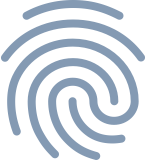
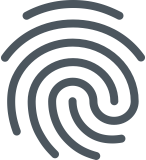
Updated Login View + ViewModel

diff --git a/PropertyManager/PropertyManager.UWP/Styles.xaml b/PropertyManager/PropertyManager.UWP/Styles.xaml
@@ -8,16 +8,17 @@
     <converters:InverseBooleanToVisibilityConverter x:Key="InverseBooleanToVisibilityConverter"/>
     
     <!--Colors-->
+    <!--<SolidColorBrush x:Key="AccentColorBrush" Color="#4dc3d3"/>-->
     <SolidColorBrush x:Key="AccentColorBrush" Color="#ea225f"/>
     <SolidColorBrush x:Key="LightAccentColorBrush" Color="#f12865"/>
     <SolidColorBrush x:Key="DarkAccentColorBrush" Color="#cc134c"/>
-    <SolidColorBrush x:Key="PrimaryColorBrush" Color="#0c2c53"/>
-    <SolidColorBrush x:Key="SecondaryColorBrush" Color="#f3f6fa"/>
+    <SolidColorBrush x:Key="PrimaryColorBrush" Color="#4c565e"/>
+    <SolidColorBrush x:Key="SecondaryColorBrush" Color="#fff"/>
 
     <!--Styles-->
     <Style x:Key="PageRootGridStyle" TargetType="Grid">
         <Setter Property="Background" Value="{StaticResource SecondaryColorBrush}"/>
-        <Setter Property="Padding" Value="20"></Setter>
+        <Setter Property="Padding" Value="30"></Setter>
     </Style>
     
     <Style x:Key="TextBlockBaseStyle" TargetType="TextBlock">
@@ -27,16 +28,19 @@
     <Style x:Key="HeaderTextBlockStyle" TargetType="TextBlock" 
            BasedOn="{StaticResource TextBlockBaseStyle}">
         <Setter Property="TextAlignment" Value="Center"/>
-        <Setter Property="FontSize" Value="30"/>
-        <Setter Property="FontFamily" Value="ms-appx:/Assets/Fonts/Roboto-Bold.ttf#Roboto"/>
+        <Setter Property="FontSize" Value="36"/>
+        <Setter Property="LineHeight" Value="36"/>
+        <!--<Setter Property="FontWeight" Value="Bold"/>-->
+        <Setter Property="FontFamily" Value="ms-appx:/Assets/Fonts/RobotoCondensed-Bold.ttf#Roboto"/>
     </Style>
 
     <Style x:Key="BodyTextBlockStyle" TargetType="TextBlock" 
            BasedOn="{StaticResource TextBlockBaseStyle}">
         <Setter Property="TextAlignment" Value="Center"/>
-        <Setter Property="FontSize" Value="15"/>
+        <Setter Property="FontSize" Value="14"/>
         <Setter Property="TextWrapping" Value="Wrap"/>
-        <Setter Property="FontFamily" Value="ms-appx:/Assets/Fonts/Roboto-Regular.ttf#Roboto"/>
+        <!--<Setter Property="FontWeight" Value="Normal"/>-->
+        <!--<Setter Property="FontFamily" Value="ms-appx:/Assets/Fonts/Roboto-Regular.ttf#Roboto"/>-->
     </Style>
 
     <Style x:Key="AccentProgressRingStyle" TargetType="ProgressRing">
@@ -50,22 +54,25 @@
         <Setter Property="Foreground" Value="#fff"/>
         <Setter Property="BorderBrush" Value="{ThemeResource SystemControlForegroundTransparentBrush}"/>
         <Setter Property="BorderThickness" Value="0"/>
-        <Setter Property="Padding" Value="20,15"/>
+        <Setter Property="Padding" Value="20,10"/>
         <Setter Property="MinWidth" Value="200"/>
-        <!--<Setter Property="Margin" Value="20,10"/>-->
         <Setter Property="HorizontalAlignment" Value="Left"/>
         <Setter Property="VerticalAlignment" Value="Center"/>
-        <Setter Property="FontWeight" Value="Bold"/>
-        <Setter Property="FontSize" Value="{ThemeResource ControlContentThemeFontSize}"/>
+        <!--<Setter Property="FontSize" Value="{ThemeResource ControlContentThemeFontSize}"/>-->
         <Setter Property="UseSystemFocusVisuals" Value="True"/>
-        <Setter Property="CharacterSpacing" Value="60"/>
+        <Setter Property="CharacterSpacing" Value="35"/>
+        <!--<Setter Property="FontWeight" Value="Bold"/>-->
         <Setter Property="FontFamily" Value="ms-appx:/Assets/Fonts/Roboto-Bold.ttf#Roboto"/>
+        <!--<Setter Property="FontFamily" Value="ms-appx:/Assets/Fonts/Roboto-Bold.ttf#Roboto"/>-->
+        <!--<Setter Property="FontSize" Value="16"/>-->
+        <!--<Setter Property="FontFamily" Value="ms-appx:/Assets/Fonts/BEBAS___.ttf#Bebas"/>-->
+
         <Setter Property="Template">
             <Setter.Value>
                 <ControlTemplate TargetType="Button">
-                    <Border x:Name="RootGrid" Background="{TemplateBinding Background}" 
-                            CornerRadius="23">
-                    <!--<Grid x:Name="RootGrid" Background="{TemplateBinding Background}">-->
+                    <!--<Border x:Name="RootGrid" Background="{TemplateBinding Background}" 
+                            CornerRadius="23">-->
+                    <Grid x:Name="RootGrid" Background="{TemplateBinding Background}">
                         <VisualStateManager.VisualStateGroups>
                             <VisualStateGroup x:Name="CommonStates">
                                 <VisualState x:Name="Normal">
@@ -105,10 +112,9 @@
                             </VisualStateGroup>
                         </VisualStateManager.VisualStateGroups>
                         <ContentPresenter x:Name="ContentPresenter" AutomationProperties.AccessibilityView="Raw" BorderBrush="{TemplateBinding BorderBrush}" BorderThickness="{TemplateBinding BorderThickness}" ContentTemplate="{TemplateBinding ContentTemplate}" ContentTransitions="{TemplateBinding ContentTransitions}" Content="{TemplateBinding Content}" HorizontalContentAlignment="{TemplateBinding HorizontalContentAlignment}" Padding="{TemplateBinding Padding}" VerticalContentAlignment="{TemplateBinding VerticalContentAlignment}"/>
-                    </Border>
+                    </Grid>
                 </ControlTemplate>
             </Setter.Value>
         </Setter>
     </Style>
-
 </ResourceDictionary>

diff --git a/PropertyManager/PropertyManager.UWP/Views/LoginView.xaml b/PropertyManager/PropertyManager.UWP/Views/LoginView.xaml
@@ -13,27 +13,31 @@
                     VerticalAlignment="Center"
                     MaxWidth="350">
             <Image Source="../Assets/Images/fingerprint.png"
-                   MaxHeight="160"></Image>
+                   MaxHeight="120"></Image>
 
             <TextBlock Style="{StaticResource HeaderTextBlockStyle}"
-                       Margin="0,10,0,0">
+                       Margin="0,25,0,0">
                 Who are you?
             </TextBlock>
 
             <TextBlock Style="{StaticResource BodyTextBlockStyle}"
-                       Margin="0,25,0,50">
-                Sign in using your work or school account in order to use this sample application. Access the sample code for this application at https://github.com/coatsy/xplat-graph
+                       Margin="0,10,0,15"
+                       Foreground="#9a9fa3">
+                Sign in with your work or school account in order to use this sample application. Access the sample code for this application at https://github.com/coatsy/xplat-graph
             </TextBlock>
 
-            <Grid HorizontalAlignment="Center" Height="50">
+            <Grid HorizontalAlignment="Stretch" Height="50">
                 <Button Style="{StaticResource AccentButtonStyle}"
+                        HorizontalAlignment="Stretch"
                         Command="{Binding LoginCommand}"
-                        Visibility="{Binding IsLoading, Converter={StaticResource InverseBooleanToVisibilityConverter}}">
+                        Visibility="{Binding IsLoading, 
+                    Converter={StaticResource InverseBooleanToVisibilityConverter}}">
                     SIGN IN
                 </Button>
 
                 <ProgressRing Style="{StaticResource AccentProgressRingStyle}"
-                          IsActive="{Binding IsLoading}">
+                          IsActive="{Binding IsLoading}"
+                              HorizontalAlignment="Center">
                 </ProgressRing>
             </Grid>
         </StackPanel>

diff --git a/PropertyManager/PropertyManager/PropertyManager/ViewModels/LoginViewModel.cs b/PropertyManager/PropertyManager/PropertyManager/ViewModels/LoginViewModel.cs
@@ -9,8 +9,6 @@ namespace PropertyManager.ViewModels
     {
         private readonly IGraphService _graphService;
 
-        private readonly IAuthenticationService _authenticationService;
-
         private bool _isLoading;
 
         public bool IsLoading
@@ -25,12 +23,9 @@ namespace PropertyManager.ViewModels
 
         public ICommand LoginCommand => new MvxCommand(LoginAsync);
 
-        public LoginViewModel(IGraphService graphService,
-            IAuthenticationService authenticationService)
+        public LoginViewModel(IGraphService graphService)
         {
             _graphService = graphService;
-            _authenticationService = authenticationService;
-            IsLoading = false;
         }
 
         private async void LoginAsync()

diff --git a/PropertyManager/PropertyManager.UWP/Services/AuthenticationService.cs b/PropertyManager/PropertyManager.UWP/Services/AuthenticationService.cs
@@ -7,7 +7,7 @@ namespace PropertyManager.UWP.Services
 {
     public class AuthenticationService : IAuthenticationService
     {
-        public string Authority => "https://login.microsoftonline.com/simonj.onmicrosoft.com";
+        public string Authority => "https://login.microsoftonline.com/common";
 
         public string Resource => "https://graph.microsoft.com/";
 
@@ -17,6 +17,9 @@ namespace PropertyManager.UWP.Services
 
         public async Task<AuthenticationResult> AcquireTokenAsync()
         {
+            // Clear the cache.
+            TokenCache.DefaultShared.Clear();
+
             // Create the authentication context.
             var authenticationContext = new AuthenticationContext(Authority);
 
